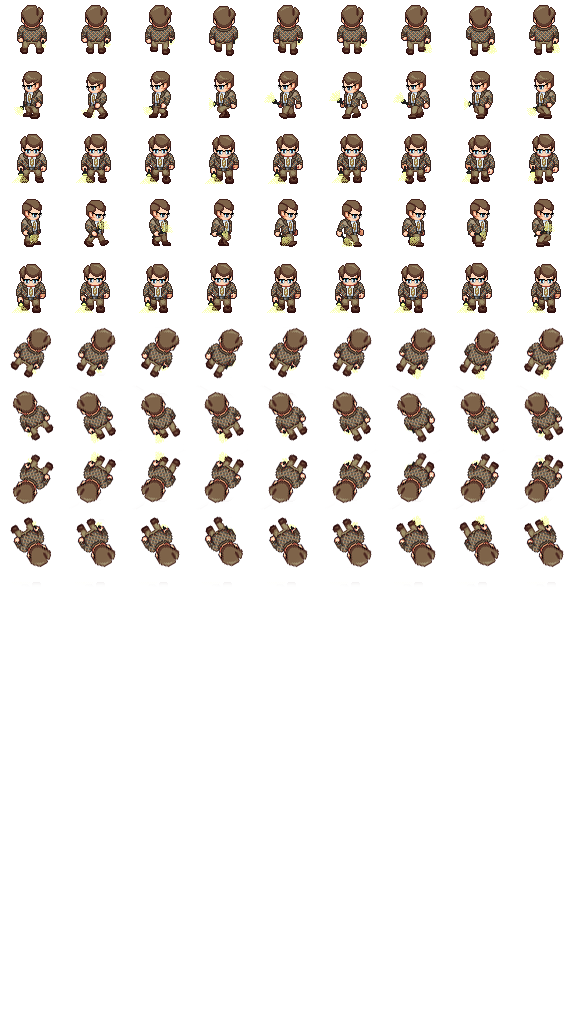
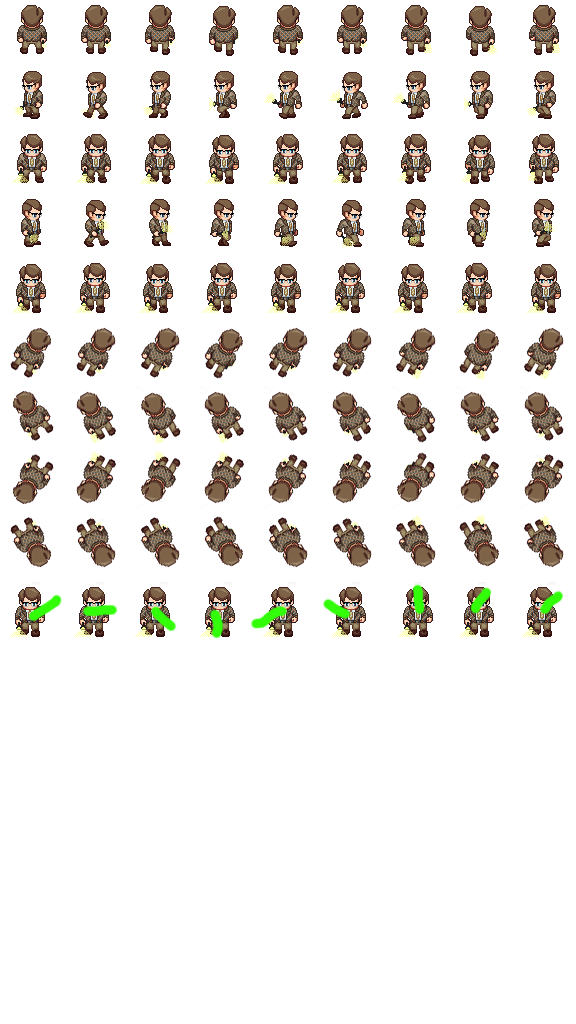
Player attack animation

diff --git a/core/src/com/rpg/game/entities/Player.java b/core/src/com/rpg/game/entities/Player.java
@@ -1,5 +1,7 @@
 package com.rpg.game.entities;
 
+import sun.rmi.runtime.Log;
+
 import com.rpg.game.handler.B2DVars;
 import com.rpg.game.handler.BodyMover;
 import com.rpg.game.handler.MyTimer;
@@ -11,7 +13,7 @@ public class Player extends Entity  {
 	private String bodyTAG = "player";
 	private static int playerHP=100;
 	private BodyMover bm;
-	private MyTimer mt;
+	private static MyTimer mt=new MyTimer(1);
 	private  float playerPositionX;
 	private  float playerPositionY;
 	
@@ -24,14 +26,15 @@ public class Player extends Entity  {
 	public static void setPlayerHP(int playerHP) {	Player.playerHP = playerHP;}
 	public static int getCOINS() {return COINS;}
 	public static void setCOINS(int COINs) {COINS = COINs;}
+	public static void setTimerForAtt() {	mt.start();}
+
 
 
 
 
 
 	public Player(int i, int j) {
-	mt= new MyTimer(1);
-		
+
 	//	enemycreator(i, j,bodyTAG, B2DVars.BIT_PLAYER, B2DVars.BIT_DOOR | B2DVars.BIT_ENEMY);
 		enemycreator(i, j,bodyTAG, 
 				B2DVars.BIT_PLAYER,
@@ -59,6 +62,7 @@ public class Player extends Entity  {
 
 	public void playerControl() {
 		
+		
 	
 		playerPositionX = getBody().getPosition().x;
 		playerPositionY = getBody().getPosition().y;
@@ -67,32 +71,42 @@ public class Player extends Entity  {
 		
 		//Play.setMoving(true);
 	
+		//is moving
+		if(Play.isMoving())
+		{getBody().setLinearVelocity((float)bm.getMovementX(),(float)bm.getMovementY());}
 		
-		if(Play.isMoving()){
-		getBody().setLinearVelocity((float)bm.getMovementX(),(float)bm.getMovementY());
-		}
-		
-		
-	
-		
-			if ((int) (getBody().getPosition().x * 10) == (int) (Play.getLastClickX() * 10)
-					&& (int) (getBody().getPosition().y * 10) == (int) (Play.getLastClickY() * 10)) {
-			
+		//is at dest
+			if ((int) (getBody().getPosition().x * 10) == (int) (Play.getLastClickX() * 10)&& (int) (getBody().getPosition().y * 10) == (int) (Play.getLastClickY() * 10)) {
 				Play.setMoving(false);
-			} else {
-			
+				
+			} 
+		//is not moving
 			if(!Play.isMoving()){
-	
+				//if not moving and not attacking
+				if(!Play.isPlayerIsAttacking()){
 			getBody().setLinearVelocity(0, 0);
 			Play.aniChecker(4);
-}
+			}//if is not moving and attacing
+				else{
+				getBody().setLinearVelocity(0, 0);
+				Play.setPlayerIsAttacking(true);
+				Play.aniChecker(9);
+				System.out.println("player is att");
+				
+				if(mt.hasCompleted()){
+					Play.setPlayerIsAttacking(false);
+					
+					System.out.println(" finished attacing");
+					
+				}
+				}
+				
+				
 			}
 			
 			
+			
 	}
-
-
-
 
 }
 

diff --git a/core/src/com/rpg/game/state/Play.java b/core/src/com/rpg/game/state/Play.java
@@ -303,6 +303,7 @@ public class Play extends GameState {
 
 			if (Gdx.input.isKeyJustPressed(Input.Keys.SPACE)) {
 				playerIsAttacking= true;
+				Player.setTimerForAtt();
 				if (((SmallEnemy) b.getUserData()) != null) {
 
 					((SmallEnemy) b.getUserData()).setHitPoint(((SmallEnemy) b.getUserData()).getHitPoint() - 0.5f);
@@ -311,6 +312,7 @@ public class Play extends GameState {
 						posX=((SmallEnemy) b.getUserData()).getBody().getPosition().x;
 						posY=((SmallEnemy) b.getUserData()).getBody().getPosition().y;
 						createCoin(posX, posY);
+						
 						
 						
 						((SmallEnemy) b.getUserData()).getHp().getSkinAtlas().dispose();

diff --git a/core/src/com/rpg/game/handler/MyContactListener.java b/core/src/com/rpg/game/handler/MyContactListener.java
@@ -33,7 +33,7 @@ public class MyContactListener implements ContactListener {
 	public void beginContact(Contact contact) {
 		Fixture fa = contact.getFixtureA();
 		Fixture fb = contact.getFixtureB();
-		System.out.println(fa.getUserData()+ ","+ fb.getUserData()) ;
+	//	System.out.println(fa.getUserData()+ ","+ fb.getUserData()) ;
 		
 		if(fa == null || fb == null) return;
 		if(fa.getUserData() != null && fa.getUserData().equals("portalForward")&& fb.getUserData().equals("player")) {
